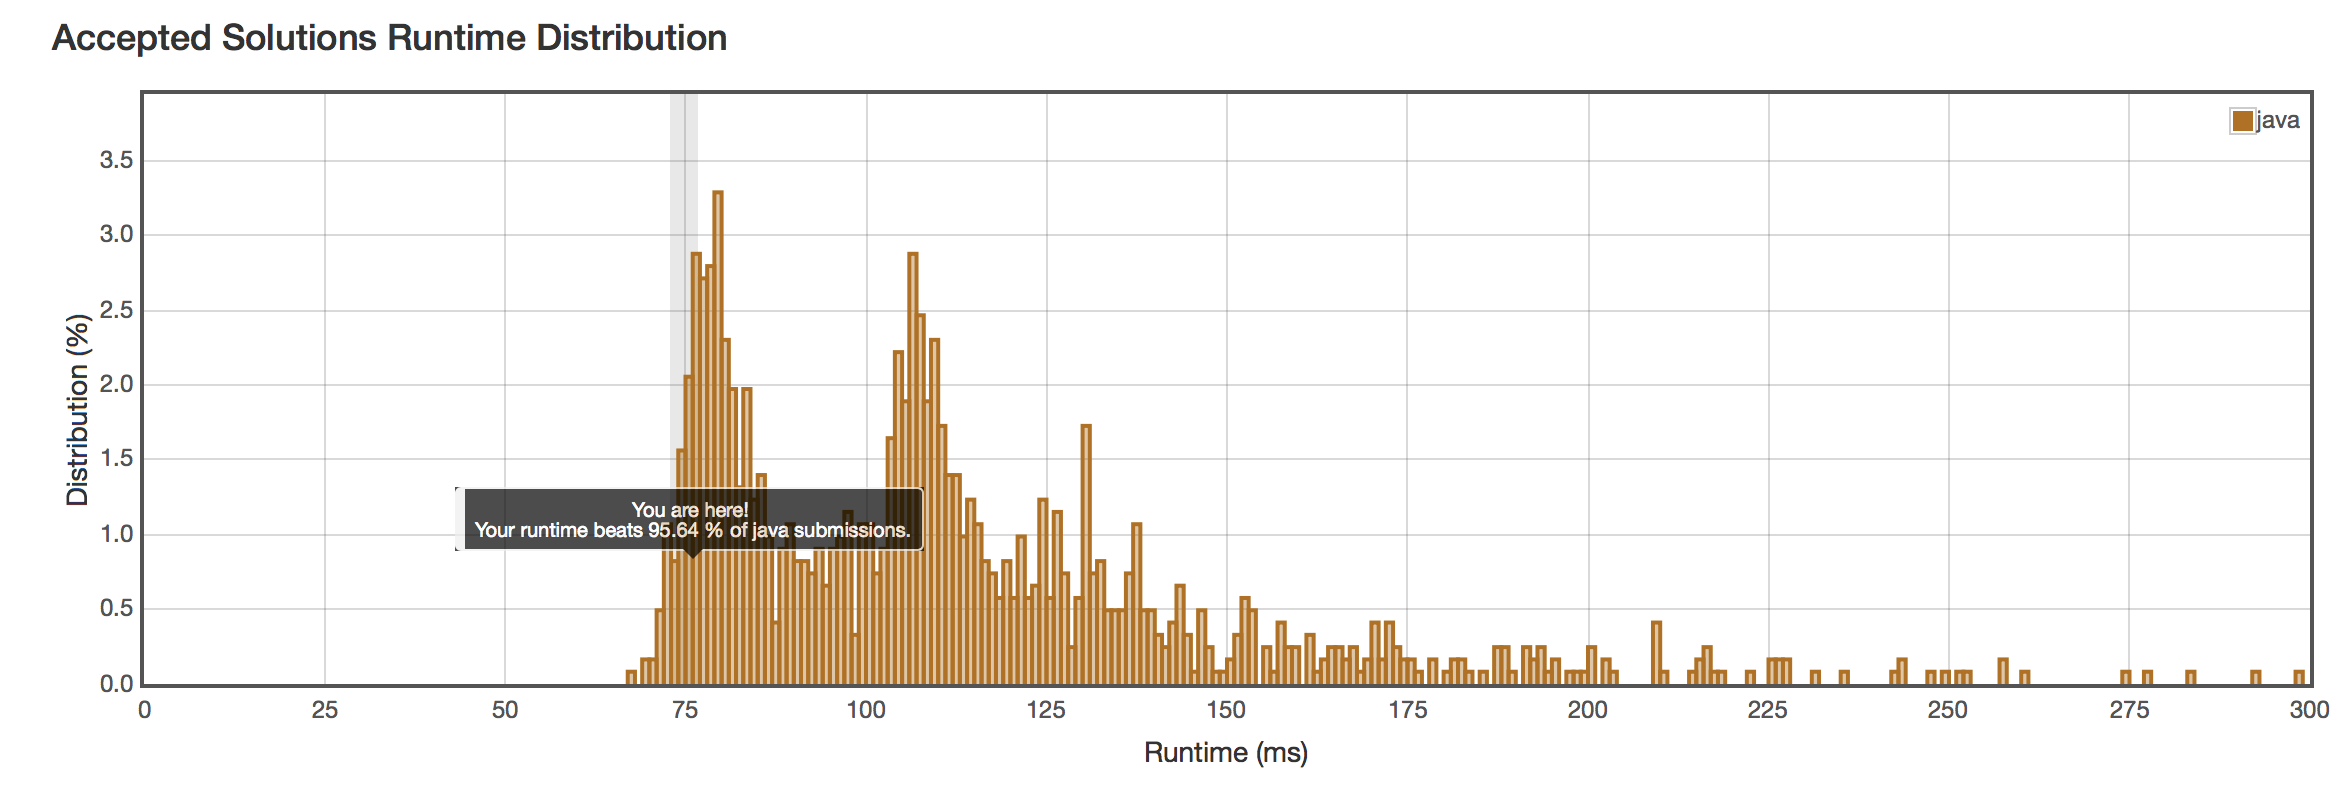
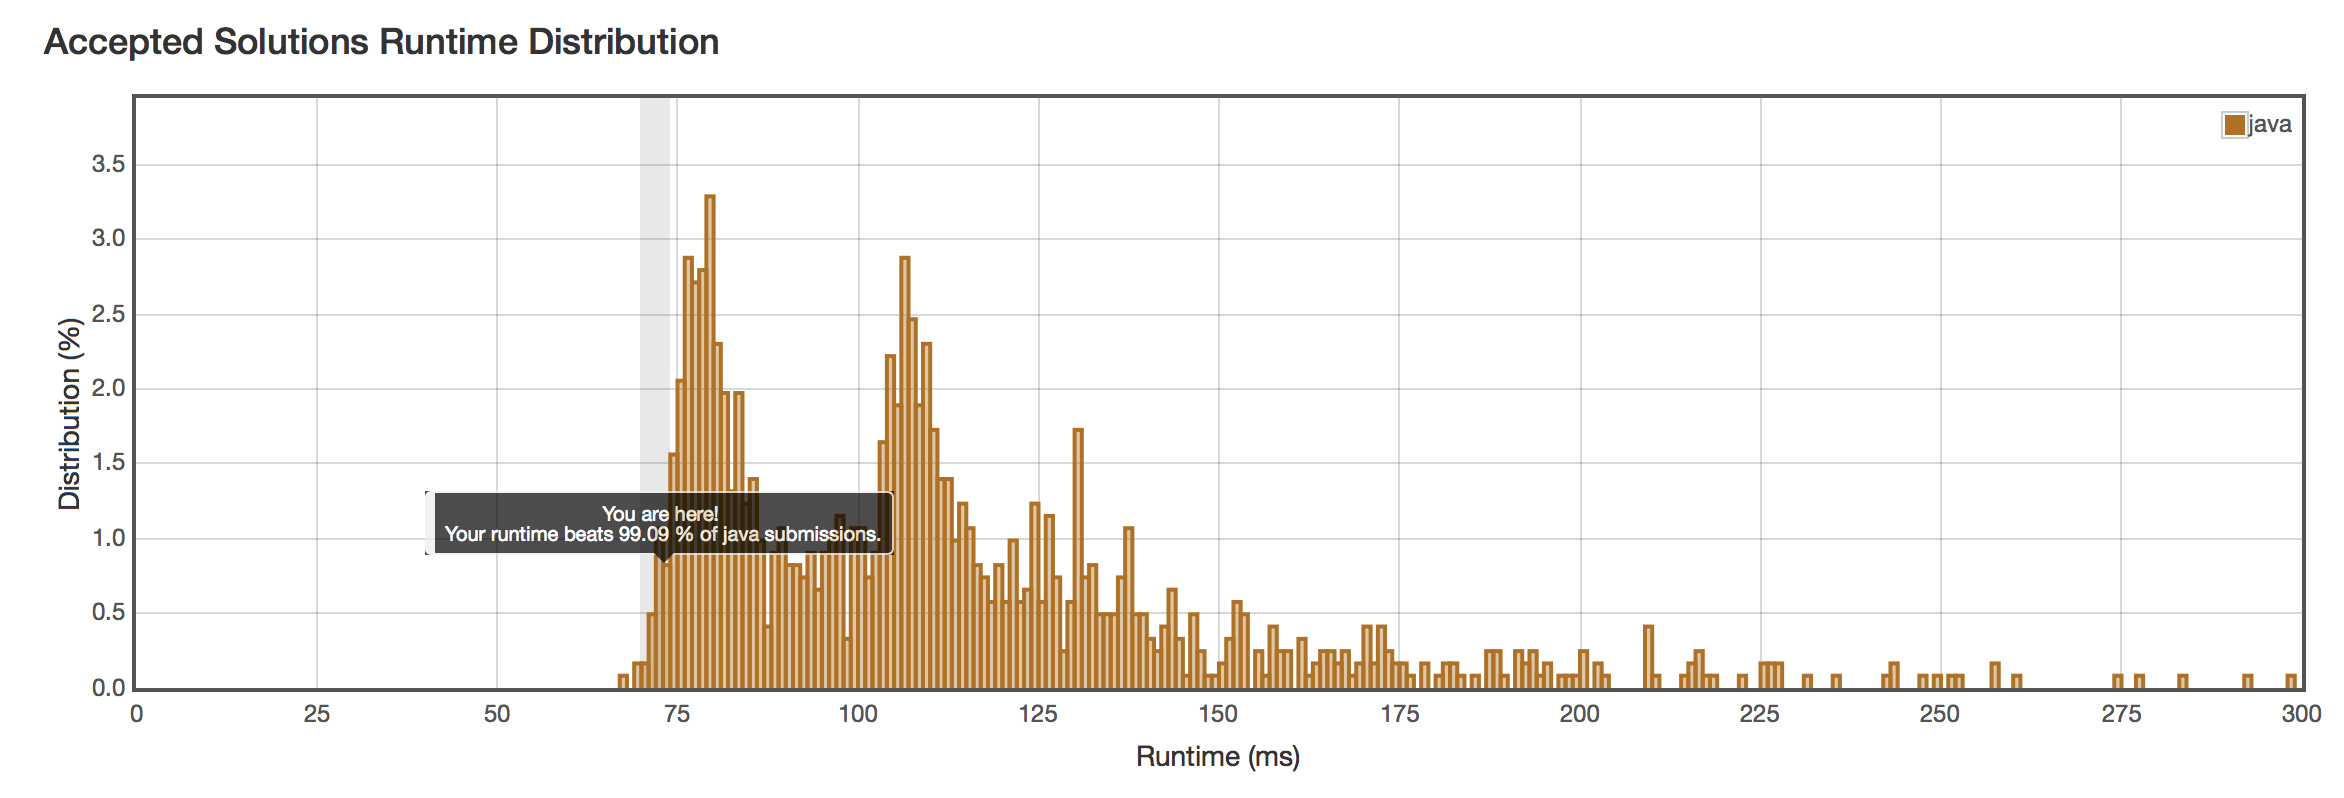
update leetcode exam room

diff --git a/_posts/2018-10-14-leetcode-exam-room.md b/_posts/2018-10-14-leetcode-exam-room.md
@@ -98,22 +98,18 @@ class ExamRoom {
 
     public int seat() {
         Gap gap = gaps.poll();
-        if (gap.lo == 0) return takeFirst(gap);
-        if (gap.hi == size - 1) return takeLast(gap);
+        if (gap.lo == 0) {
+            if (gap.hi > 0) gaps.add(new Gap(1, gap.hi));
+            return 0;
+        }
+        if (gap.hi == size - 1) {
+            if (gap.lo < size - 1) gaps.add(new Gap(gap.lo, size - 2));
+            return size - 1;
+        }
         int seat = gap.lo + (gap.hi - gap.lo) / 2;
         if (seat - gap.lo > 0) gaps.add(new Gap(gap.lo, seat - 1));
         if (gap.hi - seat > 0) gaps.add(new Gap(seat + 1, gap.hi));
         return seat;
-    }
-
-    private int takeFirst(Gap gap) {
-        if (gap.hi > 0) gaps.add(new Gap(1, gap.hi));
-        return 0;
-    }
-
-    private int takeLast(Gap gap) {
-        if (gap.lo < size - 1) gaps.add(new Gap(gap.lo, size - 2));
-        return size - 1;
     }
 
     public void leave(int p) {
@@ -131,6 +127,7 @@ class ExamRoom {
         }
         gaps.add(new Gap(head, tail));
     }
+    
 }
 ```
 
